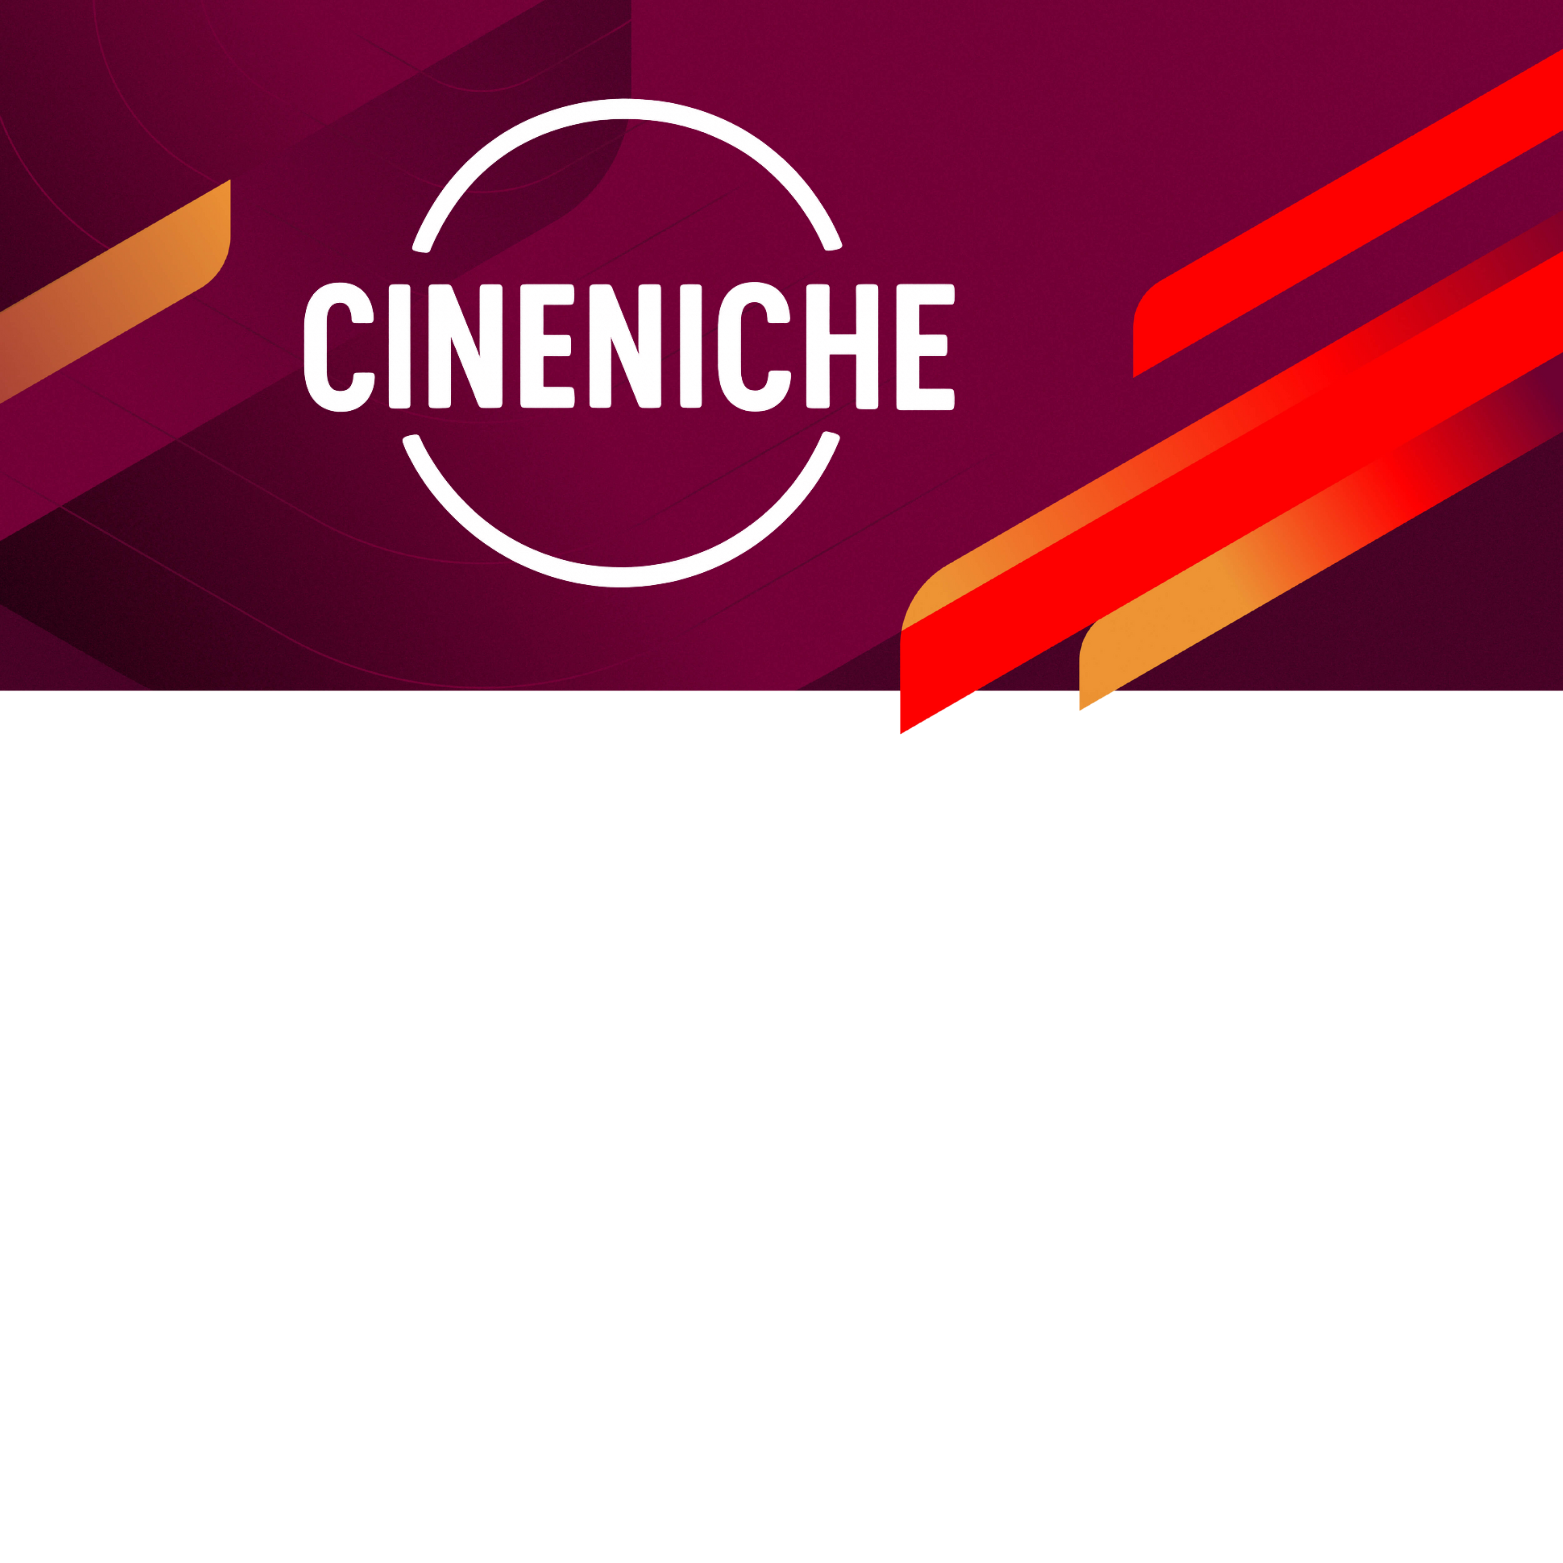
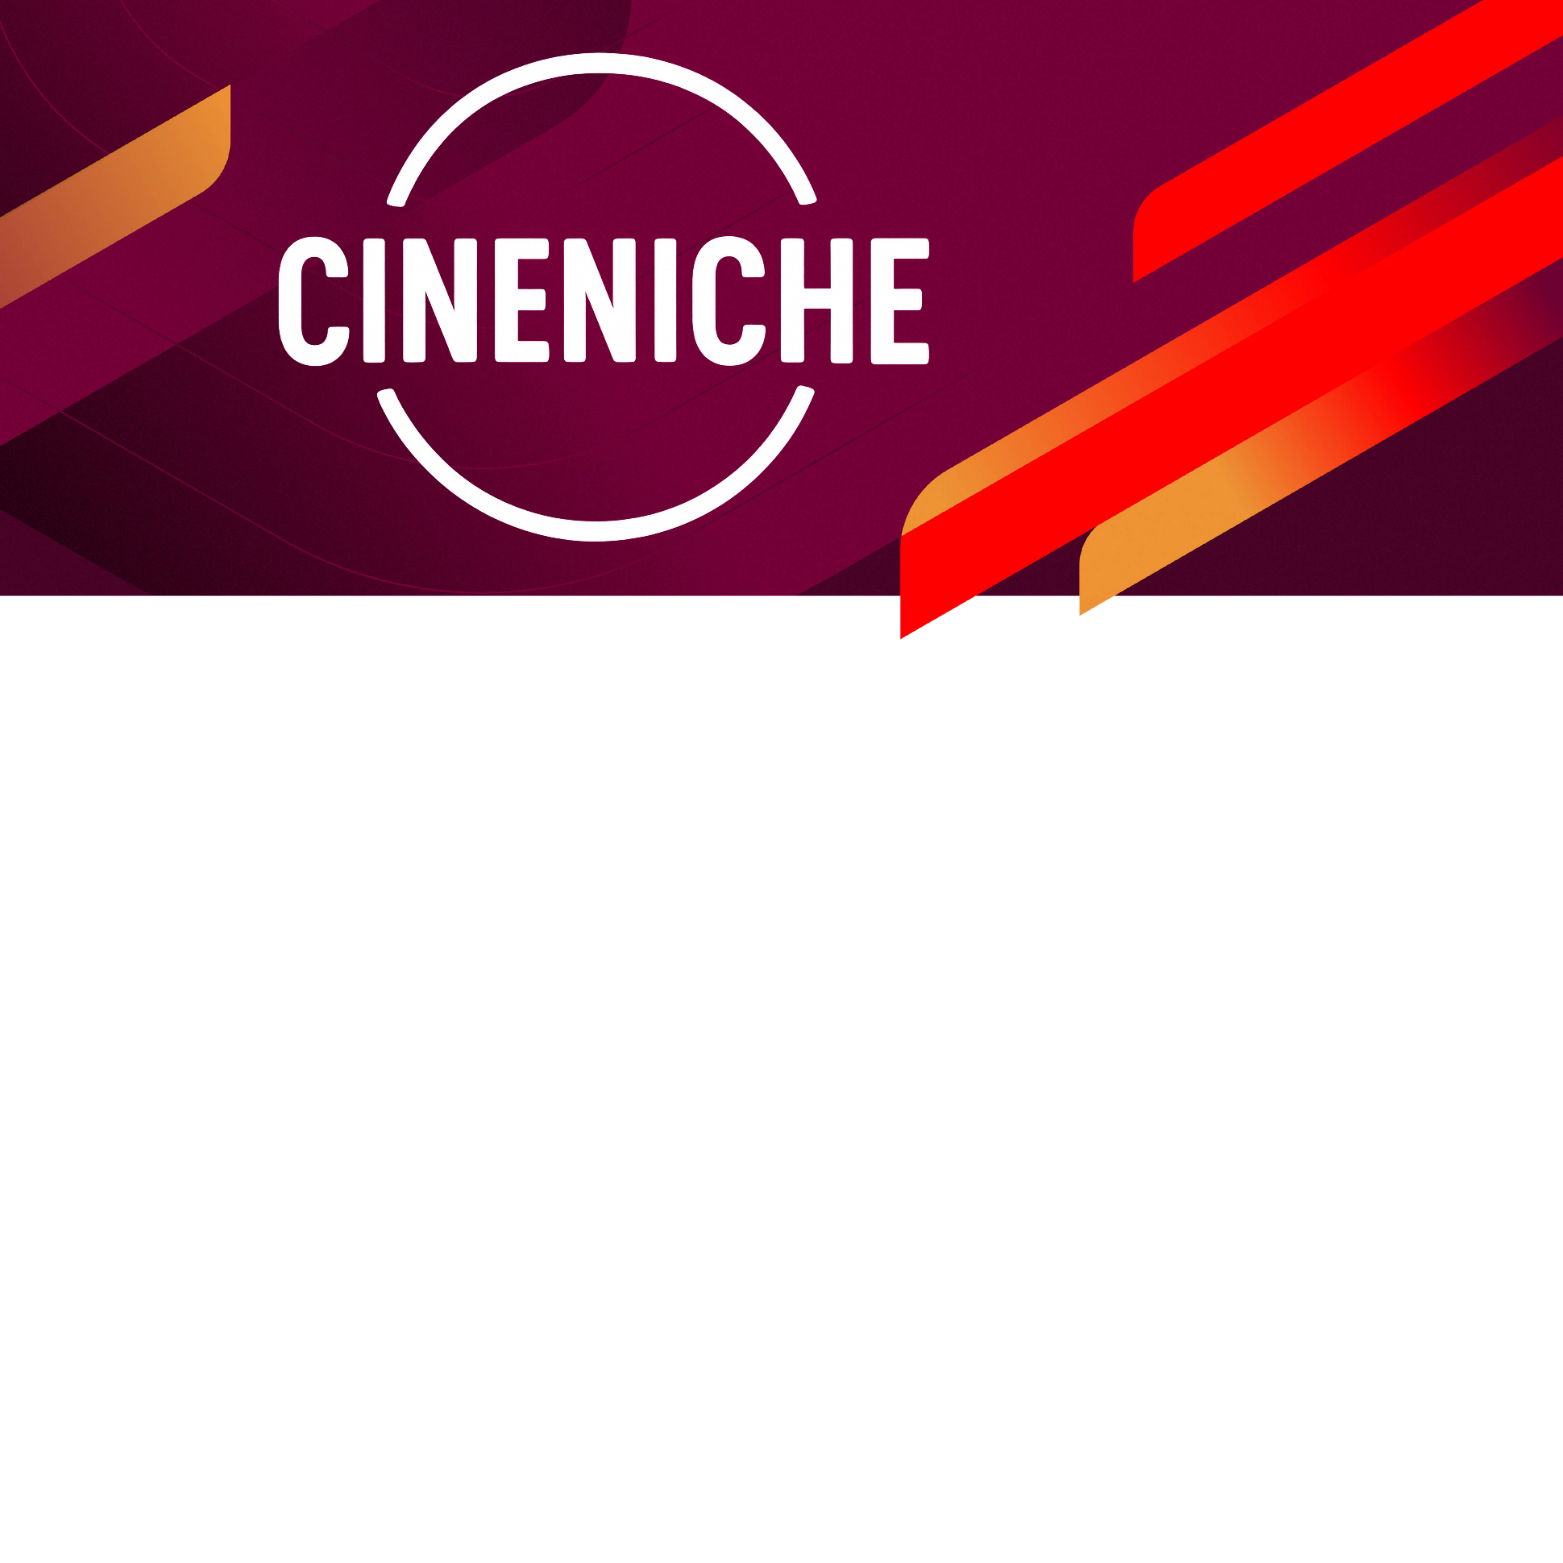
fixing styling colors

Changed region(s): [[0.0, 0.0, 1.0, 0.4607]]

diff --git a/frontend/src/components/Header.tsx b/frontend/src/components/Header.tsx
@@ -1,68 +1,16 @@
-import React, { useState } from 'react';
-import { Link, useLocation, useNavigate } from 'react-router-dom';
-import { Dropdown, FormControl } from 'react-bootstrap';
+import React from 'react';
+import { Link } from 'react-router-dom';
 import '../styles/Header.css';
 
 const Header: React.FC = () => {
-  const location = useLocation();
-  const navigate = useNavigate();
-  const isAuthenticated =
-    location.pathname.startsWith('/movies') || location.pathname.startsWith('/admin');
-
-  const [searchQuery, setSearchQuery] = useState('');
-  const [showDropdown, setShowDropdown] = useState(false);
-
-  const handleSearchChange = (e: React.ChangeEvent<HTMLInputElement>) => {
-    setSearchQuery(e.target.value);
-    setShowDropdown(e.target.value.trim().length > 0);
-  };
-
-  const handleLogout = () => {
-    localStorage.clear();
-    navigate('/');
-  };
-
   return (
-    <header className="cineniche-header px-4 py-3">
-      <Link to={isAuthenticated ? '/movies' : '/'} className="logo">
-        CineNiche
-      </Link>
-
-      {isAuthenticated ? (
-        <div className="header-right">
-          <div className="search-container">
-            <FormControl
-              type="text"
-              placeholder="Search movies..."
-              className="search-bar"
-              value={searchQuery}
-              onChange={handleSearchChange}
-            />
-            {showDropdown && (
-              <div className="bg-dark border border-secondary rounded mt-1 position-absolute w-100 z-3">
-                <p className="m-0 p-2 text-muted">Search results coming soon...</p>
-              </div>
-            )}
-          </div>
-
-          <Dropdown align="end">
-            <Dropdown.Toggle variant="outline-light" id="account-dropdown" size="sm">
-              Account
-            </Dropdown.Toggle>
-            <Dropdown.Menu className="dropdown-menu-dark">
-              <Dropdown.Item as={Link} to="/account">Settings</Dropdown.Item>
-              <Dropdown.Divider />
-              <Dropdown.Item onClick={handleLogout}>Logout</Dropdown.Item>
-            </Dropdown.Menu>
-          </Dropdown>
-        </div>
-      ) : (
-        <div className="header-right">
-          <Link to="/login" className="btn btn-danger login-button">
-            Login
-          </Link>
-        </div>
-      )}
+    <header className="cineniche-header">
+      <div className="header-left">
+        <Link to="/" className="logo">CineNiche</Link>
+      </div>
+      <div className="header-right">
+        <Link to="/login" className="login-button">Login</Link>
+      </div>
     </header>
   );
 };

diff --git a/frontend/src/styles/Header.css b/frontend/src/styles/Header.css
@@ -1,63 +1,46 @@
+@import url('https://fonts.googleapis.com/css2?family=Staatliches&display=swap');
+
 .cineniche-header {
-    width: 100%;
-    background: transparent !important;
-    color: white;
-    display: flex;
-    justify-content: space-between;
-    align-items: center;
-    z-index: 1000;
-    position: sticky;
-    top: 0;
-  }
-  
-  .logo {
-    font-size: 2rem;
-    font-weight: 900;
-    color: #7adbfb !important;
-    text-decoration: none !important;
-    letter-spacing: 1px;
-    transition: all 0.3s ease;
-    margin: 0;
-  }
-  
-  .logo:hover {
-    text-shadow: 0 0 12px rgba(93, 193, 255, 0.8);
-    transform: scale(1.05);
-  }
-  
-  .header-right {
-    display: flex;
-    align-items: center;
-    gap: 1.25rem;
-  }
-  
-  .search-container {
-    position: relative;
-  }
-  
-  .search-bar {
-    width: 200px;
-    background-color: #1c1c1c;
-    border: 1px solid #444;
-    color: white;
-    padding: 6px 10px;
-    border-radius: 4px;
-    transition: box-shadow 0.3s ease;
-  }
-  
-  .search-bar:focus {
-    outline: none;
-    box-shadow: 0 0 10px #7adbfb;
-  }
-  
-  .login-button {
-    font-weight: 600;
-    border-radius: 4px;
-    padding: 6px 14px;
-    transition: background-color 0.3s ease;
-  }
-  
-  .login-button:hover {
-    background-color: #e60000;
-  }
-  
+  display: flex;
+  justify-content: space-between;
+  align-items: center;
+  padding: 0.75rem 2rem;
+  background-color: #141414;
+  color: white;
+  position: sticky;
+  top: 0;
+  z-index: 1000;
+  width: 100vw;
+  max-width: 100%;
+}
+
+.logo {
+  font-family: 'Staatliches', sans-serif;
+  font-size: 2rem;
+  font-weight: normal;
+  color: white;
+  text-decoration: none;
+}
+
+.logo:hover{
+  color: #e50914;           /* ✅ no purple on hover or visited */
+  text-decoration: none;  /* optional: removes underline */
+}
+
+.login-button {
+  background-color: #e50914;
+  border: none;
+  color: white;
+  padding: 0.5rem 1.25rem;
+  font-size: 0.9rem;
+  border-radius: 30px;
+  cursor: pointer;
+  text-decoration: none;
+  font-weight: bold;
+  transition: background-color 0.3s ease;
+}
+
+.login-button:hover {
+  background-color: #D10026;
+  color: white;
+}

diff --git a/frontend/src/components/TitleBanner.tsx b/frontend/src/components/TitleBanner.tsx
@@ -1,23 +1,70 @@
-import React from "react";
+import React from 'react';
 
 const TitleBanner: React.FC = () => {
   return (
     <div
       style={{
-        position: "relative",
-        width: "100vw",
-        overflow: "hidden",
+        margin: 0,
+        padding: 0,
+        border: 0,
+        fontSize: '100%',
+        verticalAlign: 'baseline',
       }}
     >
-      <img
-        src="/background.png"
-        alt="Banner Background"
+      {/* Background Image Container */}
+      <div
         style={{
-          width: "100%",
-          height: "auto",     // ✅ maintain full height
-          display: "block",
+          margin: 0,
+          padding: 0,
+          width: '100%',
+          lineHeight: '0', // removes inline whitespace
         }}
-      />
+      >
+        <img
+          src="/background.png"
+          alt="Banner Background"
+          style={{
+            width: '100%',
+            height: 'auto',
+            display: 'block', // removes extra space under image
+            margin: 0,
+            padding: 0,
+          }}
+        />
+      </div>
+
+      {/* Text Directly Below */}
+      <div
+        style={{
+          backgroundColor: '#0b0c0f',
+          color: 'white',
+          padding: '2rem 1rem',
+          marginTop: 0, // ensure no spacing
+          textAlign: 'center',
+        }}
+      >
+        <h2
+          style={{
+            fontSize: '2rem',
+            fontWeight: 'bold',
+            margin: '0 0 1rem 0',
+          }}
+        >
+          Welcome to CineNiche
+        </h2>
+        <p
+          style={{
+            fontSize: '1.1rem',
+            maxWidth: '800px',
+            margin: '0 auto',
+            color: '#bbb',
+          }}
+        >
+          Discover, explore, and enjoy a world of films curated just for you.
+          Our top-rated picks and personalized recommendations make movie nights
+          better than ever.
+        </p>
+      </div>
     </div>
   );
 };

diff --git a/frontend/src/App.css b/frontend/src/App.css
@@ -1,10 +1,20 @@
+@import url('https://fonts.googleapis.com/css2?family=Staatliches&display=swap');
+
+:root {
+  --font-heading: 'Staatliches', sans-serif;
+}
+
+h1, h2, .title {
+  font-family: 'Staatliches', sans-serif;
+}
+
 html,
 body,
 #root,
 .app-root {
   min-height: 100vh;
   width: 100%;
-  background-color: #000 !important;
+  background-color: #141414 !important;
   color: #fff !important;
   font-family: 'Netflix Sans', Arial, sans-serif !important;
   display: block; /* or remove 'display' entirely */
@@ -12,3 +22,5 @@ body,
   overflow-x: hidden;
   overflow-y: auto;
 }
+
+

diff --git a/frontend/src/pages/LandingPage.tsx b/frontend/src/pages/LandingPage.tsx
@@ -87,7 +87,11 @@ const LandingPage: React.FC = () => {
       <div style={{ marginTop: '100vh' }} />
       <div className={styles.scrollContent}>
         <MovieCarouselSection title="Top Rated" movies={topMovies} />
-        <PricingPlans isAnnual={isAnnual} toggleBilling={toggleBilling} plans={plans} />
+        <PricingPlans
+          isAnnual={isAnnual}
+          toggleBilling={toggleBilling}
+          plans={plans}
+        />
       </div>
       <FloatingTrialButton onClick={scrollToPlans} />
       <Footer />

diff --git a/frontend/src/components/Navbar.module.css b/frontend/src/components/Navbar.module.css
@@ -1,5 +1,11 @@
 /* Navbar.module.css */
 
+.navLeft {
+  font-size: 1.5rem;
+  font-weight: bold;
+  font-family: 'Staatliches', sans-serif; /* 👈 this is the key line */
+}
+
 .navbar {
   display: flex;
   justify-content: space-between;
@@ -17,11 +23,6 @@
   margin: 0 auto;
   left: 0;
   right: 0;
-}
-
-.navLeft {
-  font-size: 1.5rem;
-  font-weight: bold;
 }
 
 .navCenter {

diff --git a/frontend/src/styles/LandingPage.module.css b/frontend/src/styles/LandingPage.module.css
@@ -1,7 +1,7 @@
 :root {
-    --blue-main: #0063e5;
-    --blue-hover: #1f80e0;
-    --background: #0b0c0f;
+    --blue-main: #FF2E2E;
+    --blue-hover: #D10026;
+    --background: #141414;
     --text-light: #ffffff;
     --text-muted: #bbbbbb;
     --accent-dark: #1c1c1c;

diff --git a/frontend/src/components/Navbar.tsx b/frontend/src/components/Navbar.tsx
@@ -1,5 +1,4 @@
 // Navbar.tsx
-import React from 'react';
 import { Link, useNavigate } from 'react-router-dom';
 import { logoutUser } from '../api/IntexAPI';
 import { AuthorizedUser } from './AuthorizeView';
